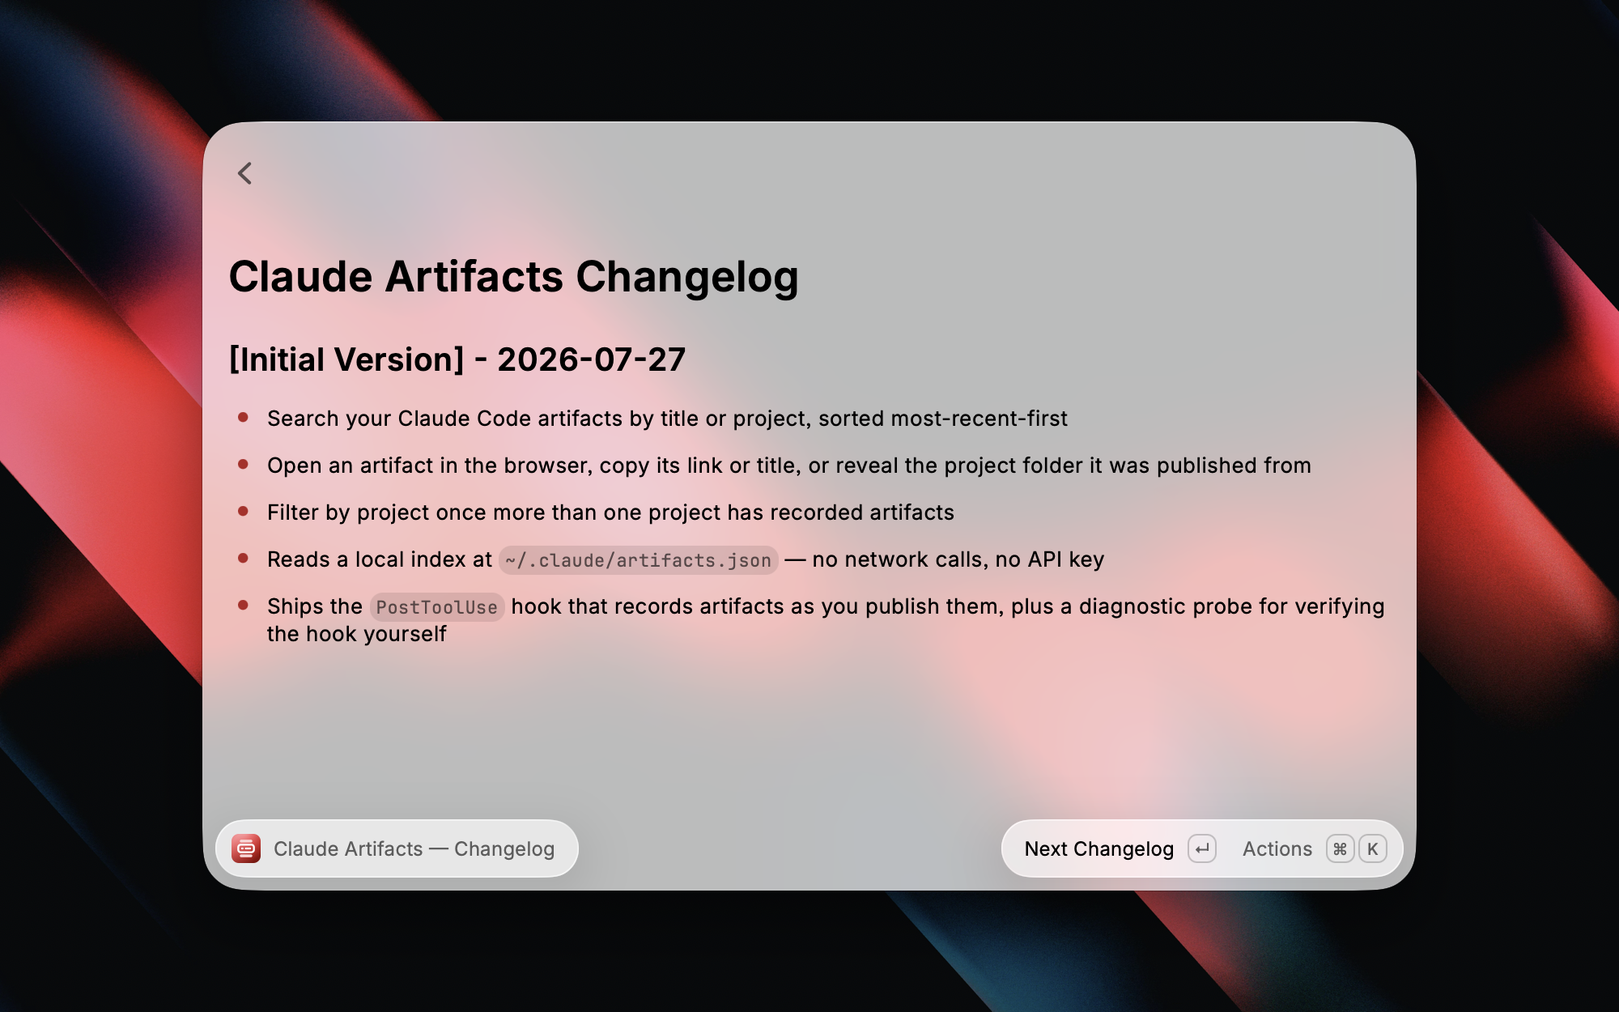
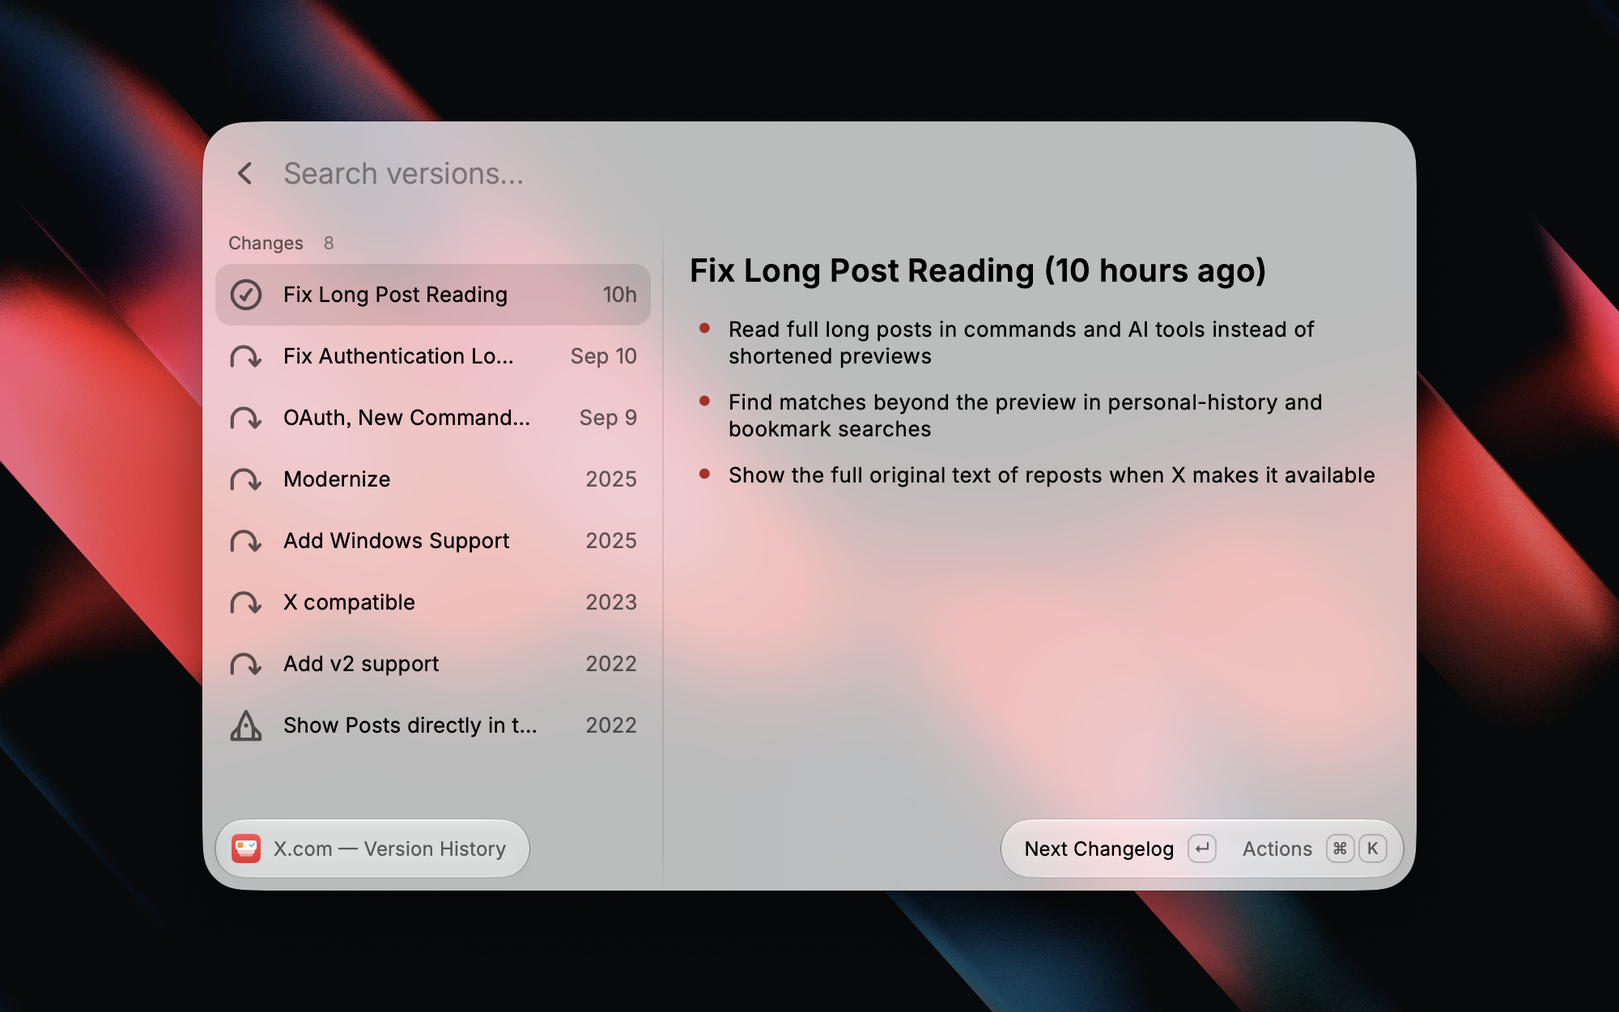
chore: pre-flight fixes, new screenshots, and Store shortcut
- "Open in Raycast Store" moves off Common.Duplicate, which the Raycast 2
  runtime binds to Cmd-D, to Opt-Shift-Cmd-O (Ctrl-Alt-Shift-O on Windows),
  matching the Store's own "View Developer" shortcut.
- The list's "Copy Recent Changes" is renamed "Copy Latest Changes", matching
  the changelog view: it copies one version, not several.
- Remove eslint.config.mjs, a dead duplicate: ESLint loads eslint.config.js
  first, and the two were equivalent.
- Comment sweep: present tense instead of arguing with replaced designs, and
  the removal fallback's "every file" claim now says first page only.
- New menu-bar README image and fourth Store screenshot; CHANGELOG adds the
  new icon and the shortcut change; AGENTS.md formatted with Prettier.
- package-lock.json: transitive dev-dependency patch bumps from npm install.

diff --git a/src/utils/index.ts b/src/utils/index.ts
@@ -668,10 +668,9 @@ export async function convertPRsToStoreItems(
   // Process removal PRs: find their deleted slugs, confirm via 404, emit one item per slug.
   //
   // This runs BEFORE the update fallbacks below, so removals get first claim on the shared
-  // /files budget. It used to run last, and a scan whose update fallbacks had spent the
-  // tokenless allowance of 5 dropped removal checks without a word — a missing removal
-  // looks identical to "nothing was removed", while a starved update merely keeps its
-  // title-derived slug. Silence is the worse failure, so it goes first.
+  // /files budget (5 per scan without a token). A starved update merely keeps its
+  // title-derived slug; a starved removal vanishes without a word, indistinguishable from
+  // "nothing was removed". Silence is the worse failure, so removals go first.
   //
   // Keyed by slug, this memoizes the in-flight confirmation rather than merely recording
   // "seen". A Set cannot express what is needed: two removal PRs deleting the same
@@ -690,12 +689,12 @@ export async function convertPRsToStoreItems(
     // needs no billed request at all. That matters more than it looks: most PRs this
     // classifies as removals are not (a survey of merged "Remove…" PRs, 2026-09-22, was
     // dominated by "Remove outdated screenshots from … README", "Remove contributor …"),
-    // and each used to spend a /files call only to be rejected. Now the extension simply
-    // answers 200 and is dropped, at no cost.
+    // and for those the extension simply answers 200 and is dropped, at no cost.
     //
     // Only an unlabelled PR — e.g. a staff bulk removal like "Removed two extensions" —
-    // falls back to /files, which proves removal by requiring every file under
-    // extensions/<slug>/ to be deleted. That call is budgeted like every other.
+    // falls back to /files, which requires every file under extensions/<slug>/ on the
+    // first page of the PR's file list (100; it does not paginate) to be deleted. That
+    // call is budgeted like every other.
     let slugs = labelSlugs(pr);
     if (slugs.length === 0) {
       if (!filesBudget.spend()) return [];
@@ -938,13 +937,13 @@ function installedExtensionsDir(): string | null {
  * for Store installs (folders named by UUID) and local `ray develop` builds (folders
  * named by slug) alike, so nothing needs resolving over the network.
  *
- * This replaced reading `~/Library/Application Support/com.raycast.macos/extensions/`,
- * which turned out not to be a registry at all: Raycast creates an extension's folder
- * there the first time it RUNS (it holds supportPath and the Cache store), so an
- * extension installed but never opened was invisible, and its updates were filtered
- * out of My Updates. Verified 2026-09-22: Hide My Email was installed, never run, and
- * absent there — and present here. Store folders there also carry no package.json,
- * which forced a batched Store-API lookup to turn UUIDs into slugs; that is gone too.
+ * Do NOT read `~/Library/Application Support/com.raycast.macos/extensions/` instead. It
+ * looks like a registry and is not one: Raycast creates an extension's folder there the
+ * first time it RUNS (it holds supportPath and the Cache store), so an extension that is
+ * installed but never opened is absent, and its updates would be filtered out of My
+ * Updates. Verified 2026-09-22: Hide My Email was installed, never run, and absent there
+ * — but present here. Its Store folders also carry no package.json, so slugs could only
+ * come from a network lookup.
  *
  * Null, never an empty or partial Set, whenever the read cannot be trusted — a filter
  * that fails closed looks exactly like "you have no updates":

diff --git a/src/utils/changelog.ts b/src/utils/changelog.ts
@@ -8,17 +8,11 @@ export interface ChangelogVersion {
   body: string;
 }
 
-// Every part of a heading after the title is optional, because the corpus is not uniform.
-// Surveyed across a random 250 of the monorepo's 2,996 changelogs (2026-09-22), 868
-// headings: the bracketed-title-plus-ISO-date form dominates, but 6 headings carry no date
-// at all (`## [Maintenance]`), 5 have no brackets (`## 1.1.0 - 2023-01-31`), and
-// single-digit days (`## [BugFix] - 2023-11-5`) occur. A strict \d{2}-\d{2} would
-// silently drop those sections — and dropping a section is worse than showing it undated,
-// because the bullets go missing with it. All 868 headings in that sample parse to a row.
-//
-// Also accepts any `{UPPER_CASE}` placeholder and a parenthesised date: a 250-file sample
-// of the monorepo (2026-09-22) turned up `{PR_MREGE_DATE}`, `{PG_MERGE_DATE}` and
-// `(2022-03-19)`, each of which otherwise stays glued to the end of the row's title.
+// The date after a heading's title, which is optional and lenient on purpose. A random 250
+// of the monorepo's changelogs (2026-09-22, 868 headings, every one parsed to a row) had
+// headings with no date (`## [Maintenance]`), single-digit days (`2023-11-5`), parenthesised
+// dates (`(2022-03-19)`) and misspelled placeholders (`{PR_MREGE_DATE}`). A stricter pattern
+// either drops those sections, bullets included, or leaves the date glued to the title.
 const TRAILING_DATE = /\s+-\s+\(?(\{[A-Z_]+\}|\d{4}-\d{1,2}-\d{1,2})\)?$/;
 
 /**

diff --git a/src/components/ExtensionActions.tsx b/src/components/ExtensionActions.tsx
@@ -90,7 +90,7 @@ export function ExtensionActions({
               />
               {latestChanges && (
                 <Action.CopyToClipboard
-                  title="Copy Recent Changes"
+                  title="Copy Latest Changes"
                   content={latestChanges}
                   icon={Icon.Clipboard}
                   shortcut={Keyboard.Shortcut.Common.Copy}
@@ -122,11 +122,16 @@ export function ExtensionActions({
               title="Open in Raycast Store"
               url={storeDeeplink}
               icon={Icon.RaycastLogoNeg}
-              shortcut={Keyboard.Shortcut.Common.Duplicate}
+              // Mirrors the Raycast Store's own "View Developer" (⌥⇧⌘O). Custom on purpose: no
+              // Common constant means "open in the Store".
+              shortcut={{
+                macOS: { modifiers: ["cmd", "opt", "shift"], key: "o" },
+                Windows: { modifiers: ["ctrl", "alt", "shift"], key: "o" },
+              }}
             />
             {/*
               CopyName, NOT a hand-written cmd+shift+c — that combo IS Common.Copy,
-              which "Copy Recent Changes" already claims in this same panel. Writing it
+              which "Copy Latest Changes" already claims in this same panel. Writing it
               longhand looks like a distinct shortcut but resolves to the same keys, and
               ray lint does not check the ActionPanel conflict invariant.
             */}

diff --git a/src/components/ChangelogDetail.tsx b/src/components/ChangelogDetail.tsx
@@ -54,8 +54,7 @@ export function ChangelogDetail({ slug, title, items, currentIndex }: ChangelogD
       isLoading={isLoading}
       isShowingDetail
       // Shown whenever no row is selected — while the changelog is still loading, and
-      // when a search filters out every version. Without it those states have no actions
-      // at all, where the old Detail view always had them.
+      // when a search filters out every version. Without it those states have no actions.
       actions={actions}
       navigationTitle={`${title} — Version History`}
       searchBarPlaceholder="Search versions…"

diff --git a/AGENTS.md b/AGENTS.md
@@ -29,11 +29,11 @@ Both route their PR fetch through `fetchMergedPRs()` and both call `convertPRsTo
 
 `StoreItem` (`src/types/index.ts`) is the unified shape everything is normalized into, discriminated by `type: "new" | "updated" | "removed"`.
 
-| `type` | Source | Path |
-| --- | --- | --- |
-| `new` | `https://www.raycast.com/store/feed.json` (official JSON feed) | `useFetch` in the command, enriched per-item |
-| `updated` | Merged PRs from `raycast/extensions` (GitHub API, `state=closed&per_page=50`) | `convertPRsToStoreItems()` |
-| `removed` | The same PR list, classified by `isRemovalPR()` and confirmed by a 404 | `convertPRsToStoreItems()` |
+| `type`    | Source                                                                        | Path                                         |
+| --------- | ----------------------------------------------------------------------------- | -------------------------------------------- |
+| `new`     | `https://www.raycast.com/store/feed.json` (official JSON feed)                | `useFetch` in the command, enriched per-item |
+| `updated` | Merged PRs from `raycast/extensions` (GitHub API, `state=closed&per_page=50`) | `convertPRsToStoreItems()`                   |
+| `removed` | The same PR list, classified by `isRemovalPR()` and confirmed by a 404        | `convertPRsToStoreItems()`                   |
 
 Metadata the feed and the PR API do not carry — `platforms`, `version`, `categories`, the extension `icon`, and for updates the `title` and `owner` — comes from each extension's `package.json` on `raw.githubusercontent.com/raycast/extensions/main/extensions/{slug}/package.json`. Coverage differs by stream: **updated** items take title, owner, and icon from it; **new** items in the main list keep the feed's own title, author, and image and add only platforms, version, categories, and icon; **new** items in the menu bar are not enriched at all (see above); **removed** items fetch nothing, since the file is gone, and carry a placeholder `platforms: ["macOS"]`.
 
@@ -47,9 +47,9 @@ Almost all complexity in `src/utils/index.ts` exists because **a merged PR does 
 
 If all three miss, the item is **still emitted** under the first guess, with a title derived from the slug and the PR author's avatar as its image — a possibly-wrong Store link was judged better than silently dropping the update.
 
-**Do not use `fetchExtensionPackageInfo()` to confirm a removal.** It returns `null` on *any* failure (its `!response.ok` branch covers 500/502/429) and caches that miss for 15 minutes, so one transient blip would display a live extension as "Removed" and keep doing so. `isExtensionGone()` exists for this: a `HEAD` request where **only an explicit 404 counts**.
+**Do not use `fetchExtensionPackageInfo()` to confirm a removal.** It returns `null` on _any_ failure (its `!response.ok` branch covers 500/502/429) and caches that miss for 15 minutes, so one transient blip would display a live extension as "Removed" and keep doing so. `isExtensionGone()` exists for this: a `HEAD` request where **only an explicit 404 counts**.
 
-Removal detection is deliberately conservative. `isRemovalPR()` (the `no-review` label or a `^removed?\b` title) flags a candidate — loosely, and most candidates are not removals at all ("Remove outdated screenshots from … README", "Remove contributor …"). The slugs to check come from the PR's `extension:` labels when it has any, for free; only an unlabelled PR (such as a staff bulk removal, "Removed two extensions") spends a billed `fetchRemovedSlugsFromPR()` call, which requires that every file under `extensions/{slug}/` *on the first page of the PR's file list* (100 files; it does not paginate) has status `"removed"`. Either way, `isExtensionGone()` then confirms with a definitive 404, and that is the actual proof: a slug that still resolves is dropped, not reported as removed — which is also how the false candidates cost nothing. One removal PR can emit multiple `removed` items — one per slug.
+Removal detection is deliberately conservative. `isRemovalPR()` (the `no-review` label or a `^removed?\b` title) flags a candidate — loosely, and most candidates are not removals at all ("Remove outdated screenshots from … README", "Remove contributor …"). The slugs to check come from the PR's `extension:` labels when it has any, for free; only an unlabelled PR (such as a staff bulk removal, "Removed two extensions") spends a billed `fetchRemovedSlugsFromPR()` call, which requires that every file under `extensions/{slug}/` _on the first page of the PR's file list_ (100 files; it does not paginate) has status `"removed"`. Either way, `isExtensionGone()` then confirms with a definitive 404, and that is the actual proof: a slug that still resolves is dropped, not reported as removed — which is also how the false candidates cost nothing. One removal PR can emit multiple `removed` items — one per slug.
 
 The removal pass runs **before** the update fallbacks, so it gets first claim on the shared `/files` budget. A starved update keeps its title-derived slug and still shows; a starved removal would vanish without a word, indistinguishable from "nothing was removed". Measured 2026-09-22 against real PRs, tokenless: with six unnameable update PRs ahead of them, the previous ordering reported **none** of three genuine removals (`authy`, and `associated-press` + `bnf-search-tool` from one bulk PR); this ordering reports all three within the same five calls. The residual gap is a single scan containing more unlabelled removal PRs than the budget allows.
 
@@ -57,20 +57,20 @@ The removal pass runs **before** the update fallbacks, so it gets first claim on
 
 **One update per extension, and it is the newest merge.** The PR list is fetched with `sort=updated` — last activity, not merge date — so a comment or label on an old PR moves it to the top, and 12 of 42 merged PRs in one measured window (2026-09-22) had merged over a week earlier. First-seen-wins let Hide My Email's Sep 2 PR hide its Sep 22 update. `convertPRsToStoreItems()` therefore keeps whichever PR merged latest, compared explicitly, across both the first pass and the file-fallback pass (sorting the input would not cover a PR whose slug is only learned in the second pass).
 
-An extension's first publish appears in *both* the feed and the merged-PR list. `convertPRsToStoreItems()` takes a `newItemDates` map (slug → feed publish date) and skips any PR whose `merged_at` is **not newer** than the feed date. Nothing makes the PR conversion wait for the feed: it can first run with an empty map, in which case an extension's first publish briefly shows as an update, and it then re-runs once the feed is processed. That re-run is keyed on `newItemDatesSignature` — a memoized string whose identity changes only when the (slug, date) set actually changes, so the network-bound `convertPRsToStoreItems()` does not re-run every time the feed merely reloads.
+An extension's first publish appears in _both_ the feed and the merged-PR list. `convertPRsToStoreItems()` takes a `newItemDates` map (slug → feed publish date) and skips any PR whose `merged_at` is **not newer** than the feed date. Nothing makes the PR conversion wait for the feed: it can first run with an empty map, in which case an extension's first publish briefly shows as an update, and it then re-runs once the feed is processed. That re-run is keyed on `newItemDatesSignature` — a memoized string whose identity changes only when the (slug, date) set actually changes, so the network-bound `convertPRsToStoreItems()` does not re-run every time the feed merely reloads.
 
 ### Filtering pipeline
 
 `displayItems` in `src/view-store-updates.tsx` applies these in order:
 
 1. **Dropdown filter** (`all` / `new` / `updated` / `my-updates` / `removed`), persisted via `storeValue`.
-2. **Platform toggles** — cross-platform extensions are *never* hidden; the toggles only affect platform-exclusive ones. `removed` items are exempt, because their `platforms` value is a placeholder rather than real data. `useFilterToggles` guarantees at least one platform stays enabled.
+2. **Platform toggles** — cross-platform extensions are _never_ hidden; the toggles only affect platform-exclusive ones. `removed` items are exempt, because their `platforms` value is a placeholder rather than real data. `useFilterToggles` guarantees at least one platform stays enabled.
 3. **Category** and **author** filters, set from the action panel.
 4. **Read state** — only when the `trackReadStatus` preference is on.
 
 `my-updates` reads installed extensions via `fetchInstalledExtensionSlugs()`, which lists `~/.config/<config-dir>/extensions/` and reads the `name` from each folder's `package.json` — that `name` is the extension's slug, for Store installs (folders named by UUID) and `ray develop` builds (folders named by slug) alike, so nothing is resolved over the network. The config-dir name comes from the running build's bundle id in `environment.supportPath`: `com.<product>.<platform>[.<variant>]` becomes `<product>[-<variant>]` (`com.raycast.macos` → `raycast`, `com.raycast-x.macos` → `raycast-x`). This approach is borrowed from the published `installed-extensions` extension; that one rule reproduces all twelve entries of its bundle-id table.
 
-**Do not read `~/Library/Application Support/com.raycast.macos/extensions/` for this.** It looks like a registry and is not one: Raycast creates an extension's folder there the first time the extension *runs* (it holds `supportPath` and the `Cache` store), so an extension that is installed but has never been opened is absent, and its updates were filtered out of My Updates. Store folders there also contain no `package.json`, which forced a Store-API lookup to turn UUIDs into slugs. (Verified 2026-09-22: Hide My Email was installed, never run, and missing from that folder, but present in `~/.config/raycast/extensions`.)
+**Do not read `~/Library/Application Support/com.raycast.macos/extensions/` for this.** It looks like a registry and is not one: Raycast creates an extension's folder there the first time the extension _runs_ (it holds `supportPath` and the `Cache` store), so an extension that is installed but has never been opened is absent, and its updates were filtered out of My Updates. Store folders there also contain no `package.json`, which forced a Store-API lookup to turn UUIDs into slugs. (Verified 2026-09-22: Hide My Email was installed, never run, and missing from that folder, but present in `~/.config/raycast/extensions`.)
 
 It returns `Set | null`, and the distinction is load-bearing: `null` means "could not tell" and both surfaces then stop filtering, so an empty `Set` would mean "nothing installed". Returning an empty set on failure is what once made this fail closed and silently show no updates at all. It returns `null` when the bundle id is unrecognised, when the folder is missing or unreadable, when any extension's `package.json` exists but cannot be read, parsed, or has no `name` (a half-written install, say — skipping it would hide that extension's updates), and when the result does not include the running extension itself (`environment.extensionName`) — which is necessarily installed while it runs, so its absence means the wrong folder was read. That self-check is also why an empty `Set` cannot occur in practice. An entry with **no** `package.json` is not an extension and is skipped rather than treated as a failure: the folder always contains Raycast's shared `node_modules`, and can hold manifest-less leftovers and stray files.
 
@@ -90,13 +90,13 @@ Each row carries its own `ChangelogActions` with that version passed as `selecte
 
 **Only `api.github.com` is billed.** `raw.githubusercontent.com` is separate infrastructure and free — that asymmetry is the lever the whole design pulls on, so keep enrichment on `raw.*`.
 
-Without the optional `githubToken` preference the budget is 60 req/hr per IP, shared across both commands. `fetchMergedPRs()` in `src/utils/index.ts` is the single entry point and picks exactly **one** transport: GraphQL when the user opted in *and* supplied a token, REST otherwise and on any GraphQL failure.
+Without the optional `githubToken` preference the budget is 60 req/hr per IP, shared across both commands. `fetchMergedPRs()` in `src/utils/index.ts` is the single entry point and picks exactly **one** transport: GraphQL when the user opted in _and_ supplied a token, REST otherwise and on any GraphQL failure.
 
-> The view command uses `useCachedPromise`, **not** `useFetch`. `useFetch` issues the request itself and only then calls `parseResponse`, so a GraphQL branch there would run *after* a REST call had already been spent — paying for both. Whatever owns the transport choice must also own the request.
+> The view command uses `useCachedPromise`, **not** `useFetch`. `useFetch` issues the request itself and only then calls `parseResponse`, so a GraphQL branch there would run _after_ a REST call had already been spent — paying for both. Whatever owns the transport choice must also own the request.
 
 Two cost controls, both load-bearing:
 
-- Slug guesses come from fields already in the PR list response (labels, title, head branch), so most PRs resolve with no extra billed request. When the first guess misses, only an `extension:` label is trusted to *replace* it — a branch name matching another extension would otherwise produce the wrong Store URL.
+- Slug guesses come from fields already in the PR list response (labels, title, head branch), so most PRs resolve with no extra billed request. When the first guess misses, only an `extension:` label is trusted to _replace_ it — a branch name matching another extension would otherwise produce the wrong Store URL.
 - `createFilesBudget()` caps billed `/pulls/{n}/files` calls per scan (5 tokenless, 50 with a token). Every caller draws on the same allowance, removals first (see above).
 
 A 429 is always a rate limit. A 403 is only treated as one when GitHub also reports `X-RateLimit-Remaining: 0`; a bare 403 is a proxy/VPN rejection and must not start a cooldown. Without a reset header the cooldown is 5 minutes, never a fabricated hour.

diff --git a/CHANGELOG.md b/CHANGELOG.md
@@ -2,15 +2,16 @@
 
 ## [Version History, Working My Updates, and Update Checks] - {PR_MERGE_DATE}
 
+- New extension icon
 - The changelog view is now a Version History: one row per version, dated where the changelog gives a date, with the full notes in a side pane
 - Copy the version you are looking at with "Copy Changes" (⌘⇧C), the newest one with "Copy Latest Changes", or the entire file with "Copy Changelog"
 - Fix "My Updates" and the menu bar's "My Updates" scope showing nothing: installed extensions are now identified correctly, including ones installed from the Store and ones you have never opened
-- Fix "My Updates" listing every update while developing the extension locally
 - If installed extensions cannot be determined, "My Updates" now shows all updates instead of wrongly claiming you have none
 - Refresh now re-checks which extensions you have installed, so a newly installed extension's updates appear without reopening the command
 - Fix an extension's newest update sometimes being hidden behind an older one, when the older pull request had seen more recent activity
 - Fix removed extensions sometimes not being reported when used without a GitHub token
 - Add a "Check for Extension Updates" action to the list (⌘⇧U) and the menu bar
+- "Open in Raycast Store" is now ⌥⇧⌘O, matching the Store's own shortcut
 
 ## [Raycast 2 Compatibility] - 2026-08-27
 
